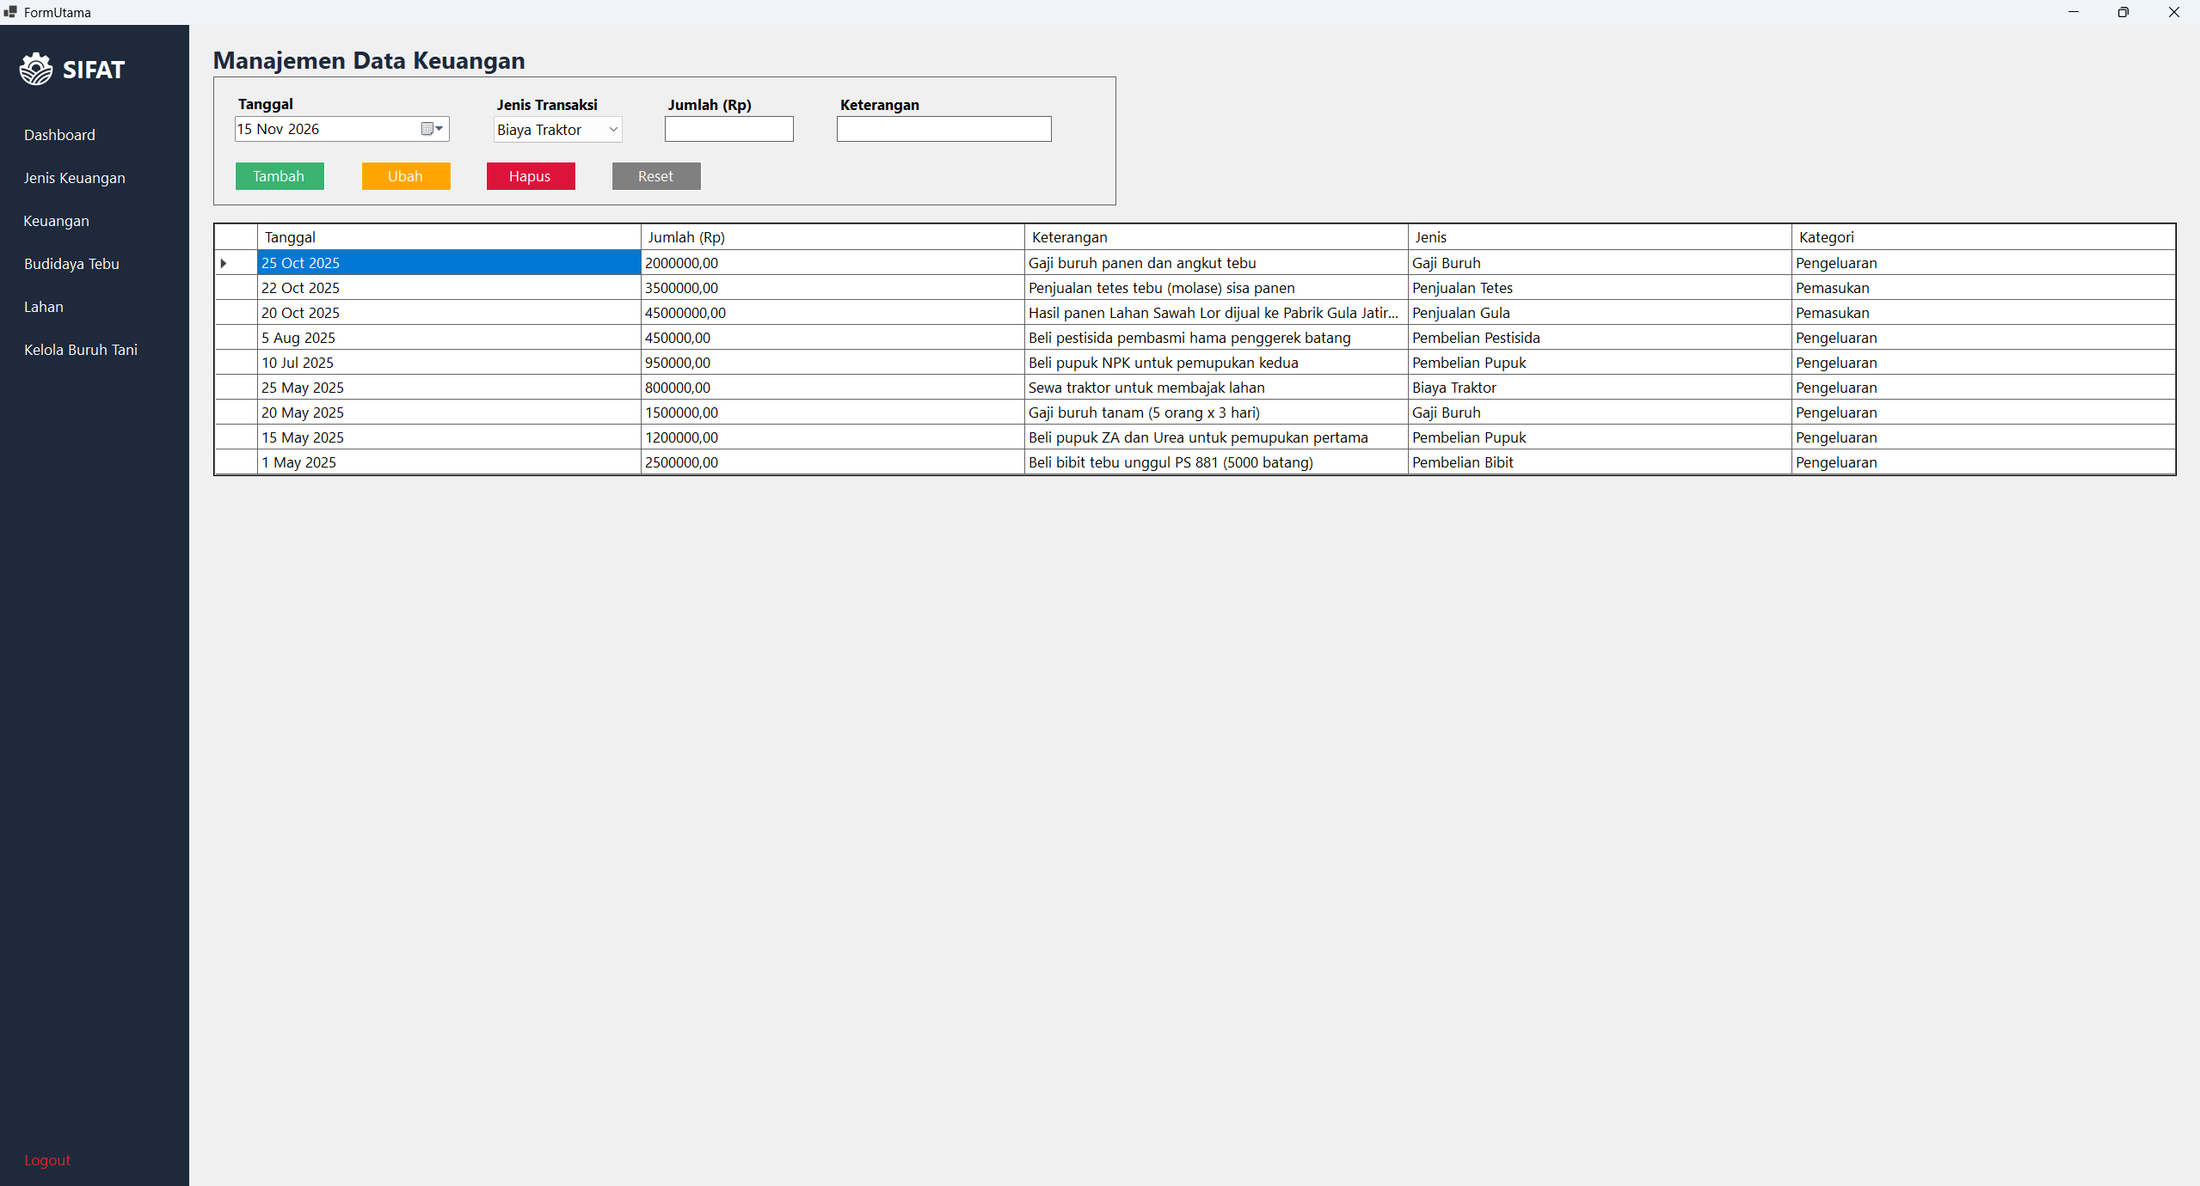
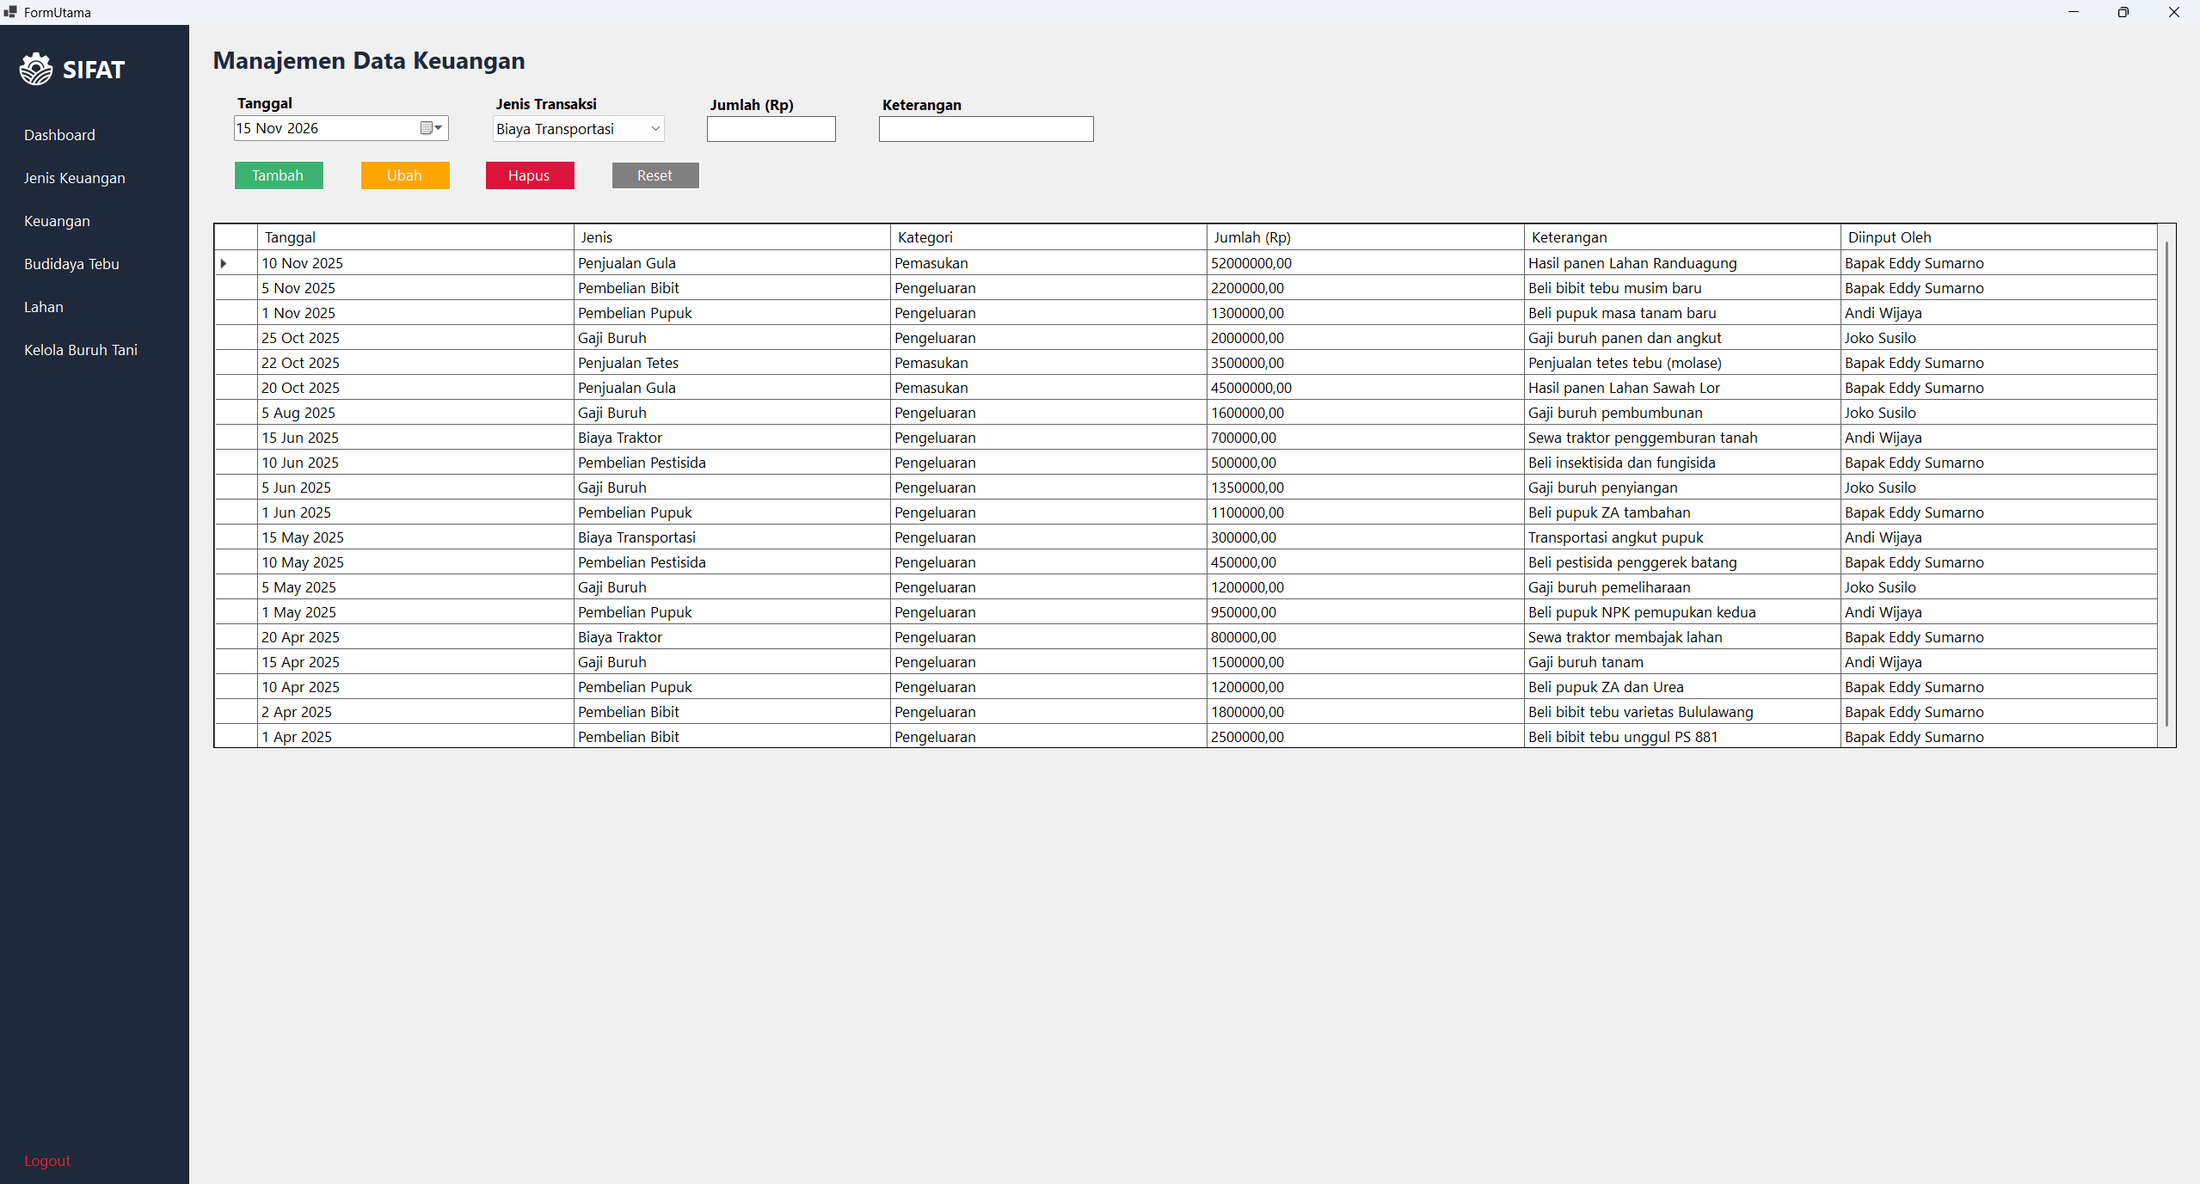
Update Table

diff --git a/SIFAT/Views/FormBudidayaTebu.Designer.cs b/SIFAT/Views/FormBudidayaTebu.Designer.cs
@@ -29,6 +29,16 @@
         private void InitializeComponent()
         {
             dgvBudidayaTebu = new DataGridView();
+            colLokasi = new DataGridViewTextBoxColumn();
+            colTglTanam = new DataGridViewTextBoxColumn();
+            colTglPanen = new DataGridViewTextBoxColumn();
+            colJumlah = new DataGridViewTextBoxColumn();
+            colStatus = new DataGridViewTextBoxColumn();
+            colNamaPengguna = new DataGridViewTextBoxColumn();
+            colId = new DataGridViewTextBoxColumn();
+            colIdLahan = new DataGridViewTextBoxColumn();
+            colIdPengguna = new DataGridViewTextBoxColumn();
+            colIsDelete = new DataGridViewTextBoxColumn();
             panelInputBudidayaTebu = new Panel();
             dtpTanggalPanen = new DateTimePicker();
             labelTanggalPanen = new Label();
@@ -57,6 +67,7 @@
             dgvBudidayaTebu.AutoSizeColumnsMode = DataGridViewAutoSizeColumnsMode.Fill;
             dgvBudidayaTebu.BackgroundColor = Color.White;
             dgvBudidayaTebu.ColumnHeadersHeightSizeMode = DataGridViewColumnHeadersHeightSizeMode.AutoSize;
+            dgvBudidayaTebu.Columns.AddRange(new DataGridViewColumn[] { colLokasi, colTglTanam, colTglPanen, colJumlah, colStatus, colNamaPengguna, colId, colIdLahan, colIdPengguna, colIsDelete });
             dgvBudidayaTebu.Location = new Point(28, 330);
             dgvBudidayaTebu.Name = "dgvBudidayaTebu";
             dgvBudidayaTebu.ReadOnly = true;
@@ -64,6 +75,90 @@
             dgvBudidayaTebu.Size = new Size(1950, 250);
             dgvBudidayaTebu.TabIndex = 8;
             dgvBudidayaTebu.CellClick += dgvBudidayaTebu_CellClick;
+            // 
+            // colLokasi
+            // 
+            colLokasi.DataPropertyName = "NamaLokasi";
+            colLokasi.HeaderText = "Lokasi Lahan";
+            colLokasi.MinimumWidth = 6;
+            colLokasi.Name = "NamaLokasi";
+            colLokasi.ReadOnly = true;
+            // 
+            // colTglTanam
+            // 
+            colTglTanam.DataPropertyName = "TanggalTanam";
+            colTglTanam.HeaderText = "Tanggal Tanam";
+            colTglTanam.MinimumWidth = 6;
+            colTglTanam.Name = "TanggalTanam";
+            colTglTanam.ReadOnly = true;
+            // 
+            // colTglPanen
+            // 
+            colTglPanen.DataPropertyName = "TanggalPanen";
+            colTglPanen.HeaderText = "Tanggal Panen";
+            colTglPanen.MinimumWidth = 6;
+            colTglPanen.Name = "TanggalPanen";
+            colTglPanen.ReadOnly = true;
+            // 
+            // colJumlah
+            // 
+            colJumlah.DataPropertyName = "JumlahTebu";
+            colJumlah.HeaderText = "Jumlah Tebu";
+            colJumlah.MinimumWidth = 6;
+            colJumlah.Name = "JumlahTebu";
+            colJumlah.ReadOnly = true;
+            // 
+            // colStatus
+            // 
+            colStatus.DataPropertyName = "Status";
+            colStatus.HeaderText = "Status";
+            colStatus.MinimumWidth = 6;
+            colStatus.Name = "Status";
+            colStatus.ReadOnly = true;
+            // 
+            // colNamaPengguna
+            // 
+            colNamaPengguna.DataPropertyName = "NamaPengguna";
+            colNamaPengguna.HeaderText = "Diinput Oleh";
+            colNamaPengguna.MinimumWidth = 6;
+            colNamaPengguna.Name = "NamaPengguna";
+            colNamaPengguna.ReadOnly = true;
+            // 
+            // colId
+            // 
+            colId.DataPropertyName = "Id";
+            colId.HeaderText = "Id";
+            colId.MinimumWidth = 6;
+            colId.Name = "Id";
+            colId.ReadOnly = true;
+            colId.Visible = false;
+            // 
+            // colIdLahan
+            // 
+            colIdLahan.DataPropertyName = "IdLahan";
+            colIdLahan.HeaderText = "IdLahan";
+            colIdLahan.MinimumWidth = 6;
+            colIdLahan.Name = "IdLahan";
+            colIdLahan.ReadOnly = true;
+            colIdLahan.Visible = false;
+            // 
+            // colIdPengguna
+            // 
+            colIdPengguna.DataPropertyName = "IdPengguna";
+            colIdPengguna.HeaderText = "IdPengguna";
+            colIdPengguna.MinimumWidth = 6;
+            colIdPengguna.Name = "IdPengguna";
+            colIdPengguna.ReadOnly = true;
+            colIdPengguna.Visible = false;
+            // 
+            // colIsDelete
+            // 
+            colIsDelete.DataPropertyName = "IsDelete";
+            colIsDelete.HeaderText = "IsDelete";
+            colIsDelete.MinimumWidth = 6;
+            colIsDelete.Name = "IsDelete";
+            colIsDelete.ReadOnly = true;
+            colIsDelete.Visible = false;
             // 
             // panelInputBudidayaTebu
             // 
@@ -300,5 +395,15 @@
         private CheckBox checkBox1;
         private DateTimePicker dtpTanggalPanen;
         private Label labelTanggalPanen;
+        private DataGridViewTextBoxColumn colLokasi;
+        private DataGridViewTextBoxColumn colTglTanam;
+        private DataGridViewTextBoxColumn colTglPanen;
+        private DataGridViewTextBoxColumn colJumlah;
+        private DataGridViewTextBoxColumn colStatus;
+        private DataGridViewTextBoxColumn colNamaPengguna;
+        private DataGridViewTextBoxColumn colId;
+        private DataGridViewTextBoxColumn colIdLahan;
+        private DataGridViewTextBoxColumn colIdPengguna;
+        private DataGridViewTextBoxColumn colIsDelete;
     }
 }

diff --git a/SIFAT/Repositories/BudidayaTebuRepository.cs b/SIFAT/Repositories/BudidayaTebuRepository.cs
@@ -13,10 +13,11 @@ namespace SIFAT.Repositories
             using (NpgsqlConnection conn = SIFAT.Database.Koneksi.GetConnection())
             {
                 conn.Open();
-                string query = "INSERT INTO budidaya_tebu (id_lahan, tanggal_tanam, tanggal_panen, jumlah_tebu, status) VALUES (@id_lahan, @tgl_tanam, @tgl_panen, @jumlah, @status)";
+                string query = "INSERT INTO budidaya_tebu (id_lahan, id_pengguna, tanggal_tanam, tanggal_panen, jumlah_tebu, status) VALUES (@id_lahan, @id_pengguna, @tgl_tanam, @tgl_panen, @jumlah, @status)";
                 using (NpgsqlCommand cmd = new NpgsqlCommand(query, conn))
                 {
                     cmd.Parameters.AddWithValue("@id_lahan", budidaya.IdLahan);
+                    cmd.Parameters.AddWithValue("@id_pengguna", budidaya.IdPengguna);
                     cmd.Parameters.AddWithValue("@tgl_tanam", budidaya.TanggalTanam);
                     cmd.Parameters.AddWithValue("@tgl_panen", (object)budidaya.TanggalPanen ?? DBNull.Value);
                     cmd.Parameters.AddWithValue("@jumlah", budidaya.JumlahTebu);
@@ -32,7 +33,12 @@ namespace SIFAT.Repositories
             using (NpgsqlConnection conn = SIFAT.Database.Koneksi.GetConnection())
             {
                 conn.Open();
-                string query = @"SELECT b.id, b.id_lahan, b.tanggal_tanam, b.tanggal_panen, b.jumlah_tebu, b.status, l.nama_lokasi FROM budidaya_tebu b JOIN lahan l ON b.id_lahan = l.id WHERE b.is_delete = false ORDER BY b.id DESC";
+                string query = @"SELECT b.id, b.id_lahan, b.id_pengguna, b.tanggal_tanam, b.tanggal_panen, b.jumlah_tebu, b.status, 
+                                 l.nama_lokasi, p.nama_lengkap 
+                                 FROM budidaya_tebu b 
+                                 JOIN lahan l ON b.id_lahan = l.id 
+                                 JOIN pengguna p ON b.id_pengguna = p.id
+                                 WHERE b.is_delete = false ORDER BY b.id DESC";
                 using (NpgsqlCommand cmd = new NpgsqlCommand(query, conn))
                 {
                     using (NpgsqlDataReader reader = cmd.ExecuteReader())
@@ -43,11 +49,13 @@ namespace SIFAT.Repositories
                             {
                                 Id = Convert.ToInt32(reader["id"]),
                                 IdLahan = Convert.ToInt32(reader["id_lahan"]),
+                                IdPengguna = Convert.ToInt32(reader["id_pengguna"]),
                                 TanggalTanam = DateTime.Parse(reader["tanggal_tanam"].ToString()),
                                 TanggalPanen = reader["tanggal_panen"] == DBNull.Value ? (DateTime?)null : DateTime.Parse(reader["tanggal_panen"].ToString()),
                                 JumlahTebu = Convert.ToInt32(reader["jumlah_tebu"]),
                                 Status = reader["status"].ToString(),
-                                NamaLokasi = reader["nama_lokasi"].ToString()
+                                NamaLokasi = reader["nama_lokasi"].ToString(),
+                                NamaPengguna = reader["nama_lengkap"].ToString()
                             });
                         }
                     }
@@ -90,4 +98,3 @@ namespace SIFAT.Repositories
         }
     }
 }
-

diff --git a/SIFAT/Views/FormBudidayaTebu.cs b/SIFAT/Views/FormBudidayaTebu.cs
@@ -13,15 +13,18 @@ namespace SIFAT.Views
     public partial class FormBudidayaTebu : Form
     {
         private BudidayaTebuController _controller = new BudidayaTebuController();
+        private Pengguna _userLogin;
         private int _selectedId = 0;
 
-        public FormBudidayaTebu()
+        public FormBudidayaTebu(Pengguna user)
         {
             InitializeComponent();
             this.TopLevel = false;
             this.FormBorderStyle = FormBorderStyle.None;
             this.Dock = DockStyle.Fill;
             this.ForeColor = Color.Black;
+
+            _userLogin = user;
 
             LoadComboLahan();
             LoadComboStatus();
@@ -55,17 +58,13 @@ namespace SIFAT.Views
             try
             {
                 List<BudidayaTebu> list = _controller.GetAllBudidaya();
+                dgvBudidayaTebu.AutoGenerateColumns = false;
                 dgvBudidayaTebu.DataSource = list;
 
-                if (dgvBudidayaTebu.Columns["Id"] != null) dgvBudidayaTebu.Columns["Id"].Visible = false;
-                if (dgvBudidayaTebu.Columns["IdLahan"] != null) dgvBudidayaTebu.Columns["IdLahan"].Visible = false;
-                if (dgvBudidayaTebu.Columns["IsDelete"] != null) dgvBudidayaTebu.Columns["IsDelete"].Visible = false;
-
-                if (dgvBudidayaTebu.Columns["NamaLokasi"] != null) dgvBudidayaTebu.Columns["NamaLokasi"].HeaderText = "Lokasi Lahan";
-                if (dgvBudidayaTebu.Columns["TanggalTanam"] != null) dgvBudidayaTebu.Columns["TanggalTanam"].HeaderText = "Tgl Tanam";
-                if (dgvBudidayaTebu.Columns["TanggalPanen"] != null) dgvBudidayaTebu.Columns["TanggalPanen"].HeaderText = "Tgl Panen";
-                if (dgvBudidayaTebu.Columns["JumlahTebu"] != null) dgvBudidayaTebu.Columns["JumlahTebu"].HeaderText = "Jumlah Tebu";
-                if (dgvBudidayaTebu.Columns["Status"] != null) dgvBudidayaTebu.Columns["Status"].HeaderText = "Status";
+                if (dgvBudidayaTebu.Columns["NamaPengguna"] != null)
+                {
+                    dgvBudidayaTebu.Columns["NamaPengguna"].Visible = (_userLogin.Role == "Petani");
+                }
 
                 AturTinggiTabel();
             }
@@ -119,7 +118,7 @@ namespace SIFAT.Views
 
             int idLahan = Convert.ToInt32(cmbLahanBudidaya.SelectedValue);
             string status = cmbStatusBudidaya.SelectedItem.ToString();
-            string pesan = _controller.TambahBudidaya(idLahan, dtpTanggalTanam.Value, checkBox1.Checked, dtpTanggalPanen.Value, txtJumlahtebu.Text, status);
+            string pesan = _controller.TambahBudidaya(idLahan, _userLogin.Id, dtpTanggalTanam.Value, checkBox1.Checked, dtpTanggalPanen.Value, txtJumlahtebu.Text, status);
 
             if (pesan == "OK")
             {

diff --git a/SIFAT/Views/FormKeuangan.Designer.cs b/SIFAT/Views/FormKeuangan.Designer.cs
@@ -34,6 +34,7 @@
             colKategori = new DataGridViewTextBoxColumn();
             colJumlah = new DataGridViewTextBoxColumn();
             colKeterangan = new DataGridViewTextBoxColumn();
+            colNamaPengguna = new DataGridViewTextBoxColumn();
             colId = new DataGridViewTextBoxColumn();
             colIdPengguna = new DataGridViewTextBoxColumn();
             colIdJenisKeuangan = new DataGridViewTextBoxColumn();
@@ -63,7 +64,7 @@
             dgvKeuangan.AutoSizeColumnsMode = DataGridViewAutoSizeColumnsMode.Fill;
             dgvKeuangan.BackgroundColor = Color.White;
             dgvKeuangan.ColumnHeadersHeightSizeMode = DataGridViewColumnHeadersHeightSizeMode.AutoSize;
-            dgvKeuangan.Columns.AddRange(new DataGridViewColumn[] { colTanggal, colNamaJenis, colKategori, colJumlah, colKeterangan, colId, colIdPengguna, colIdJenisKeuangan, colIsDelete });
+            dgvKeuangan.Columns.AddRange(new DataGridViewColumn[] { colTanggal, colNamaJenis, colKategori, colJumlah, colKeterangan, colNamaPengguna, colId, colIdPengguna, colIdJenisKeuangan, colIsDelete });
             dgvKeuangan.Location = new Point(28, 230);
             dgvKeuangan.Name = "dgvKeuangan";
             dgvKeuangan.ReadOnly = true;
@@ -111,6 +112,14 @@
             colKeterangan.MinimumWidth = 6;
             colKeterangan.Name = "Keterangan";
             colKeterangan.ReadOnly = true;
+            // 
+            // colNamaPengguna
+            // 
+            colNamaPengguna.DataPropertyName = "NamaPengguna";
+            colNamaPengguna.HeaderText = "Diinput Oleh";
+            colNamaPengguna.MinimumWidth = 6;
+            colNamaPengguna.Name = "NamaPengguna";
+            colNamaPengguna.ReadOnly = true;
             // 
             // colId
             // 
@@ -352,6 +361,7 @@
         private DataGridViewTextBoxColumn colKategori;
         private DataGridViewTextBoxColumn colJumlah;
         private DataGridViewTextBoxColumn colKeterangan;
+        private DataGridViewTextBoxColumn colNamaPengguna;
         private DataGridViewTextBoxColumn colId;
         private DataGridViewTextBoxColumn colIdPengguna;
         private DataGridViewTextBoxColumn colIdJenisKeuangan;

diff --git a/SIFAT/Repositories/KeuanganRepository.cs b/SIFAT/Repositories/KeuanganRepository.cs
@@ -32,7 +32,12 @@ namespace SIFAT.Repositories
             using (NpgsqlConnection conn = SIFAT.Database.Koneksi.GetConnection())
             {
                 conn.Open();
-                string query = @"SELECT k.id, k.id_pengguna, k.id_jenis_keuangan, k.tanggal, k.jumlah, k.keterangan, j.nama_jenis, j.kategori FROM keuangan k JOIN jenis_keuangan j ON k.id_jenis_keuangan = j.id WHERE k.is_delete = false ORDER BY k.tanggal DESC, k.id DESC";
+                string query = @"SELECT k.id, k.id_pengguna, k.id_jenis_keuangan, k.tanggal, k.jumlah, k.keterangan, 
+                                 j.nama_jenis, j.kategori, p.nama_lengkap 
+                                 FROM keuangan k 
+                                 JOIN jenis_keuangan j ON k.id_jenis_keuangan = j.id 
+                                 JOIN pengguna p ON k.id_pengguna = p.id
+                                 WHERE k.is_delete = false ORDER BY k.tanggal DESC, k.id DESC";
                 using (NpgsqlCommand cmd = new NpgsqlCommand(query, conn))
                 {
                     using (NpgsqlDataReader reader = cmd.ExecuteReader())
@@ -48,7 +53,8 @@ namespace SIFAT.Repositories
                                 Jumlah = Convert.ToDecimal(reader["jumlah"]),
                                 Keterangan = reader["keterangan"].ToString(),
                                 NamaJenis = reader["nama_jenis"].ToString(),
-                                Kategori = reader["kategori"].ToString()
+                                Kategori = reader["kategori"].ToString(),
+                                NamaPengguna = reader["nama_lengkap"].ToString()
                             });
                         }
                     }

diff --git a/SIFAT/Controllers/BudidayaTebuController.cs b/SIFAT/Controllers/BudidayaTebuController.cs
@@ -11,7 +11,7 @@ namespace SIFAT.Controllers
         private BudidayaTebuRepository _repo = new BudidayaTebuRepository();
         private LahanRepository _repoLahan = new LahanRepository();
 
-        public string TambahBudidaya(int idLahan, DateTime tglTanam, bool sudahPanen, DateTime tglPanen, string jumlahStr, string status)
+        public string TambahBudidaya(int idLahan, int idPengguna, DateTime tglTanam, bool sudahPanen, DateTime tglPanen, string jumlahStr, string status)
         {
             if (idLahan == 0 || string.IsNullOrWhiteSpace(jumlahStr))
             {
@@ -26,6 +26,7 @@ namespace SIFAT.Controllers
             BudidayaTebu data = new BudidayaTebu
             {
                 IdLahan = idLahan,
+                IdPengguna = idPengguna,
                 TanggalTanam = tglTanam,
                 TanggalPanen = sudahPanen ? tglPanen : (DateTime?)null,
                 JumlahTebu = jumlah,

diff --git a/SIFAT/Models/BudidayaTebu.cs b/SIFAT/Models/BudidayaTebu.cs
@@ -10,6 +10,7 @@ namespace SIFAT.Models
     {
         public int Id { get; set; }
         public int IdLahan { get; set; }
+        public int IdPengguna { get; set; }
         public DateTime TanggalTanam { get; set; }
         public DateTime? TanggalPanen { get; set; }
         public int JumlahTebu { get; set; }
@@ -17,11 +18,13 @@ namespace SIFAT.Models
         public bool IsDelete { get; set; }
 
         public string NamaLokasi { get; set; }
+        public string NamaPengguna { get; set; }
 
         public BudidayaTebu()
         {
             Status = string.Empty;
             NamaLokasi = string.Empty;
+            NamaPengguna = string.Empty;
         }
     }
 }

diff --git a/SIFAT/Models/Keuangan.cs b/SIFAT/Models/Keuangan.cs
@@ -18,12 +18,14 @@ namespace SIFAT.Models
 
         public string NamaJenis { get; set; }
         public string Kategori { get; set; }
+        public string NamaPengguna { get; set; }
 
         public Keuangan()
         {
             Keterangan = string.Empty;
             NamaJenis = string.Empty;
             Kategori = string.Empty;
+            NamaPengguna = string.Empty;
         }
     }
 }

diff --git a/SIFAT/Views/FormUtama.cs b/SIFAT/Views/FormUtama.cs
@@ -74,7 +74,7 @@ namespace SIFAT.Views
 
         private void btnBudidaya_Click(object sender, EventArgs e)
         {
-            BukaForm(new FormBudidayaTebu());
+            BukaForm(new FormBudidayaTebu(_userLogin));
         }
 
         private void btnBuruh_Click(object sender, EventArgs e)
